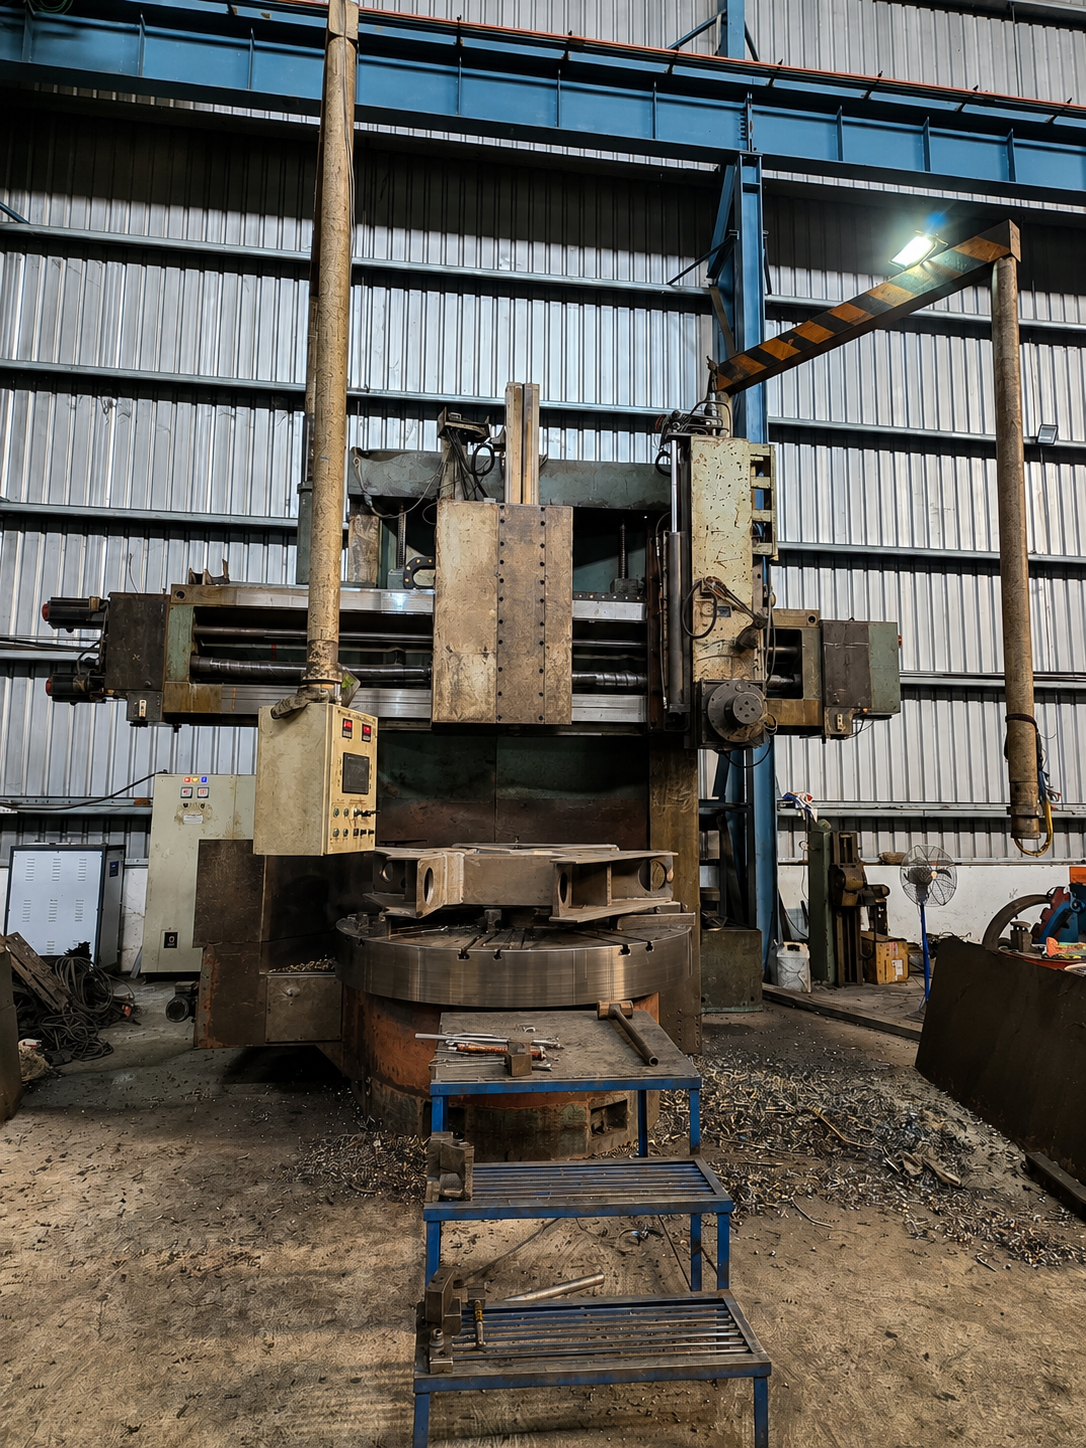
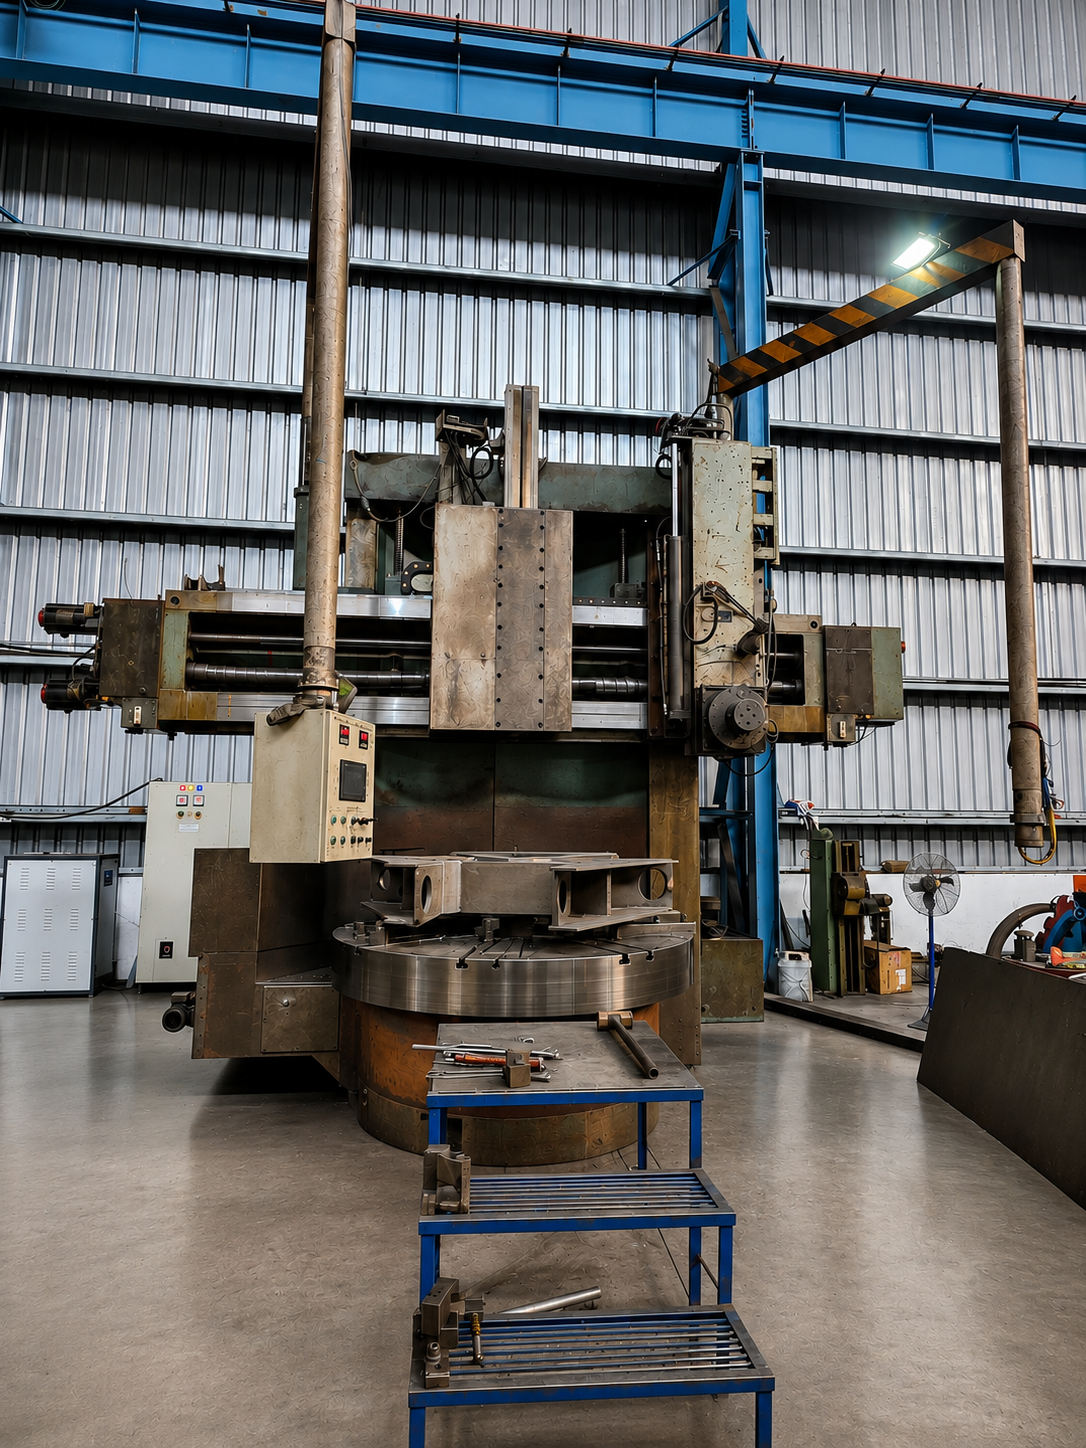
Fix image paths and add correct product/equipment images across MRK, Ess Ess, and Shri Balaji pages

diff --git a/src/pages/EssEssIndustriesProducts.tsx b/src/pages/EssEssIndustriesProducts.tsx
@@ -85,13 +85,13 @@ const EssEssIndustriesProducts = () => {
   const products: { name: string; image?: string; images?: string[]; description: string }[] = [
     { name: 'Differential 33" Size', image: '/images/ess-ess/products/DIFFERENTIAL 33" SIZE.png', description: "Precision differential components for 33-inch applications" },
     { name: 'Differential 35" Size', image: '/images/ess-ess/products/DIFFERENTIAL 35" SIZE.png', description: "High-quality differential assemblies for 35-inch systems" },
-    { name: 'Differential 38" Size', image: '/images/ess-ess/products/DIFFERENTIAL 38" SIZE.png', description: "Advanced differential components for 38-inch applications" },
-    { name: 'Differential 42" Size', image: '/images/ess-ess/products/DIFFERENTIAL 42" SIZE.png', description: "Heavy-duty differential assemblies for 42-inch systems" },
+    { name: 'Differential 38" Size', image: '/images/ess-ess/products/DIFFERENTIAL 38" SIZE.png', description: "Advanced differential components for 38-inch applications — uses 4mm Handi" },
+    { name: 'Differential 42" Size', image: '/images/ess-ess/products/DIFFERENTIAL 42" SIZE.png', description: "Heavy-duty differential assemblies for 42-inch systems — uses 4mm Handi" },
     { name: "Handle T - Casting Version", image: "/images/ess-ess/products/HANDLE T_CASTING_VERSION.png", description: "Cast T-handle component — without lock mechanism" },
     { name: "Handle T - Forging Version", images: ["/images/ess-ess/products/HANDLE_T_FORGING_VERSION_WITH_LOCK.png", "/images/ess-ess/products/HANDLE_T_FORGING_VERSION_WITHOUT_LOCK.png"], description: "Forged T-handle component — available with lock and without lock versions" },
     { name: "Neck Pipe Components", image: "/images/ess-ess/products/NECK_PIPE.jpg", description: "Precision neck pipe components for fluid transfer systems" },
     { name: "Drum Brake Hub Assembly 25.5", images: ["/images/ess-ess/products/DRUM_BRAKE_HUB_ASSEMBLY_1.jpg", "/images/ess-ess/products/DRUM_BRAKE_HUB_ASSEMBLY_2.jpg"], description: "25.5 size drum brake hub assembly — includes wheel hub, brake plate with shoes, and axle spindle" },
-    { name: "Handi (4mm)", images: ["/images/ess-ess/products/4MM_HANDI.jpg", "/images/ess-ess/products/4MM_HANDI_2.jpg"], description: "Press formed chassis tube components — structural frame members for e-rickshaw assembly" },
+    { name: "Handi (4mm)", images: ["/images/ess-ess/products/4MM_HANDI.jpg", "/images/ess-ess/products/4MM_HANDI_2.jpg"], description: "4mm thickness press formed chassis tube components — structural frame members for e-rickshaw assembly" },
   ];
 
   return (

diff --git a/src/pages/MrkImpexEquipment.tsx b/src/pages/MrkImpexEquipment.tsx
@@ -53,9 +53,9 @@ const MrkImpexEquipment = () => {
 
   const machinery: { name: string; image?: string; images?: string[]; description: string }[] = [
     { name: "CNC Lathe Machines", image: "/images/mrk/equipment/CNC Lathe Machines.jpeg", description: "Swing Over Bed - Dia1600mm, Swing Over Slide - Dia2000mm, Total Length - 7500mm" },
-    { name: "Vertical Machining Centre (KAFO3151)", image: "/images/mrk/equipment/VMC KAFO3151.jpeg", description: "X-5000mm, Y-3000mm, Z-1700mm" },
-    { name: "Vertical Machining Centre (VMC-2)", image: "/images/mrk/equipment/VMC_2.png", description: "X-4100mm, Y-3500mm, Z-1500mm" },
-    { name: "Vertical Machining Centre (VMC-3)", image: "/images/mrk/equipment/VMC_1.png", description: "X-2700mm, Y-1700mm, Z-100mm" },
+    { name: "Vertical Machining Centre (KAFO3151)", image: "/images/mrk/equipment/VMC KAFO3151.jpeg", description: "Unit 1 — X-5000mm, Y-3000mm, Z-1700mm" },
+    { name: "Vertical Machining Centre (VMC-2)", image: "/images/mrk/equipment/VMC_2.png", description: "Unit 2 — X-4100mm, Y-3500mm, Z-1500mm" },
+    { name: "Vertical Machining Centre (VMC-3)", image: "/images/mrk/equipment/VMC_1.png", description: "Unit 3 — X-2700mm, Y-1700mm, Z-100mm" },
     { name: "CNC Vertical Turning Lathe (TOS German)", image: "/images/mrk/equipment/CNC Vertical Turning Lathe.png", description: "Dia 2200mm, Z axis - 1600mm" },
     { name: "Roll Grinder (TOS German)", image: "/images/mrk/equipment/Roll Grinder TOS.png", description: "Job Capacity 900X5000MM & Dia 400X1400MM — Precision roll grinding" },
     { name: "ELGA Milling Machine", image: "/images/mrk/equipment/ELGA Milling Machine.jpeg", description: "X axis - 8000mm, Y axis - 1200mm, Z axis - 1000mm" },

diff --git a/src/pages/ShriBalajiIndustries.tsx b/src/pages/ShriBalajiIndustries.tsx
@@ -205,7 +205,7 @@ const ShriBalajiIndustries = () => {
     { name: "Robotic Plasma Machines", image: "/images/Robotic Plasma Machines.jpeg", description: "4 units for automated cutting operations" },
     { name: "Power Presses", image: "/images/pressingforming_mechanical_power_press_models.JPG", description: "High-speed stamping operations" },
     { 
-      name: "Shearing Cutting Machine", 
+      name: "Laser Cutting Machine", 
       images: [
         "/images/shri-balaji/equipment/SHEARING_CUTTING_MACHINE_1.png",
         "/images/shri-balaji/equipment/SHEARING_CUTTING_MACHINE_2.png"

diff --git a/src/pages/ShriBalajiIndustriesEquipment.tsx b/src/pages/ShriBalajiIndustriesEquipment.tsx
@@ -175,7 +175,7 @@ const ShriBalajiIndustriesEquipment = () => {
     { name: "Robotic Plasma Machines", image: "/images/shri-balaji/equipment/Robotic Plasma Machines.jpeg", description: "4 units for automated cutting operations" },
     { name: "Press Brake Machine", image: "/images/shri-balaji/equipment/PRESS BRAKE MACHINE.png", description: "Precision bending operations" },
     {
-      name: "Shearing Cutting Machine", 
+      name: "Laser Cutting Machine", 
       images: [
         "/images/shri-balaji/equipment/SHEARING_CUTTING_MACHINE_1.png",
         "/images/shri-balaji/equipment/SHEARING_CUTTING_MACHINE_2.png"